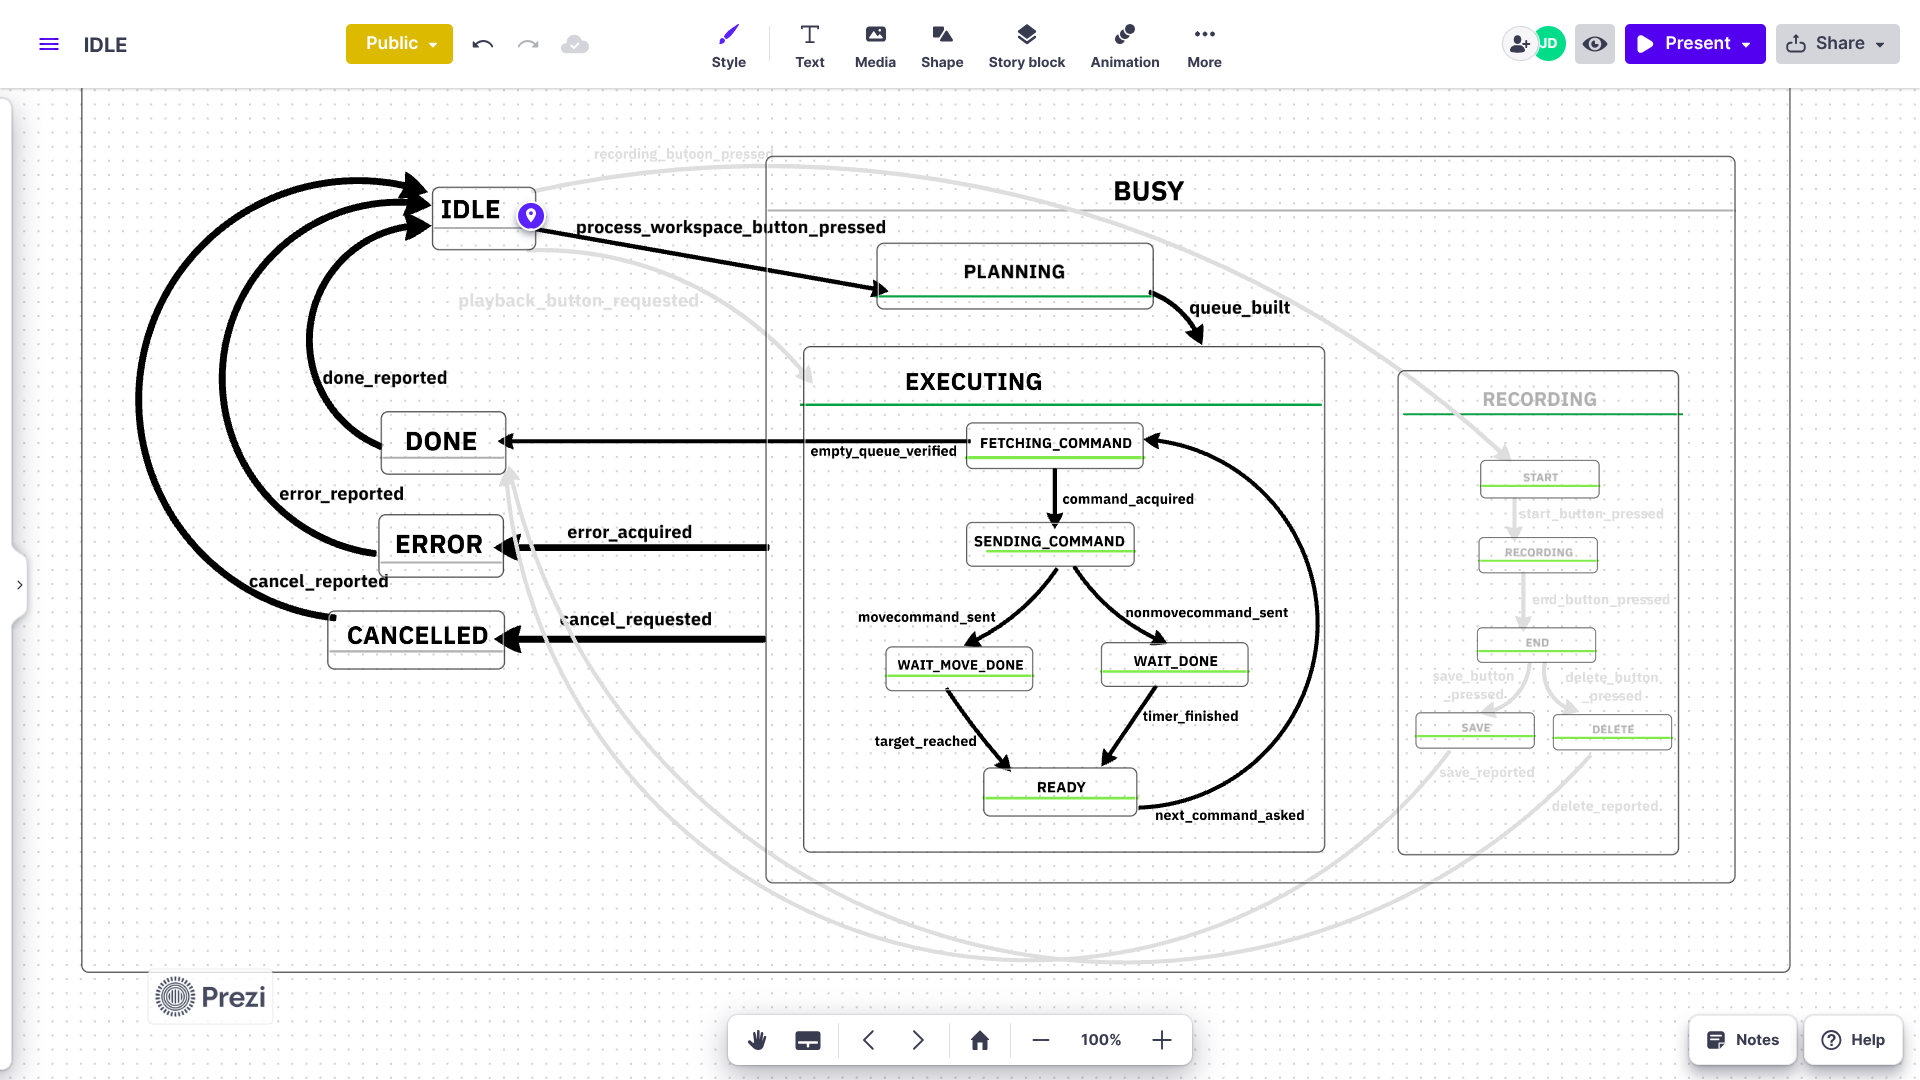
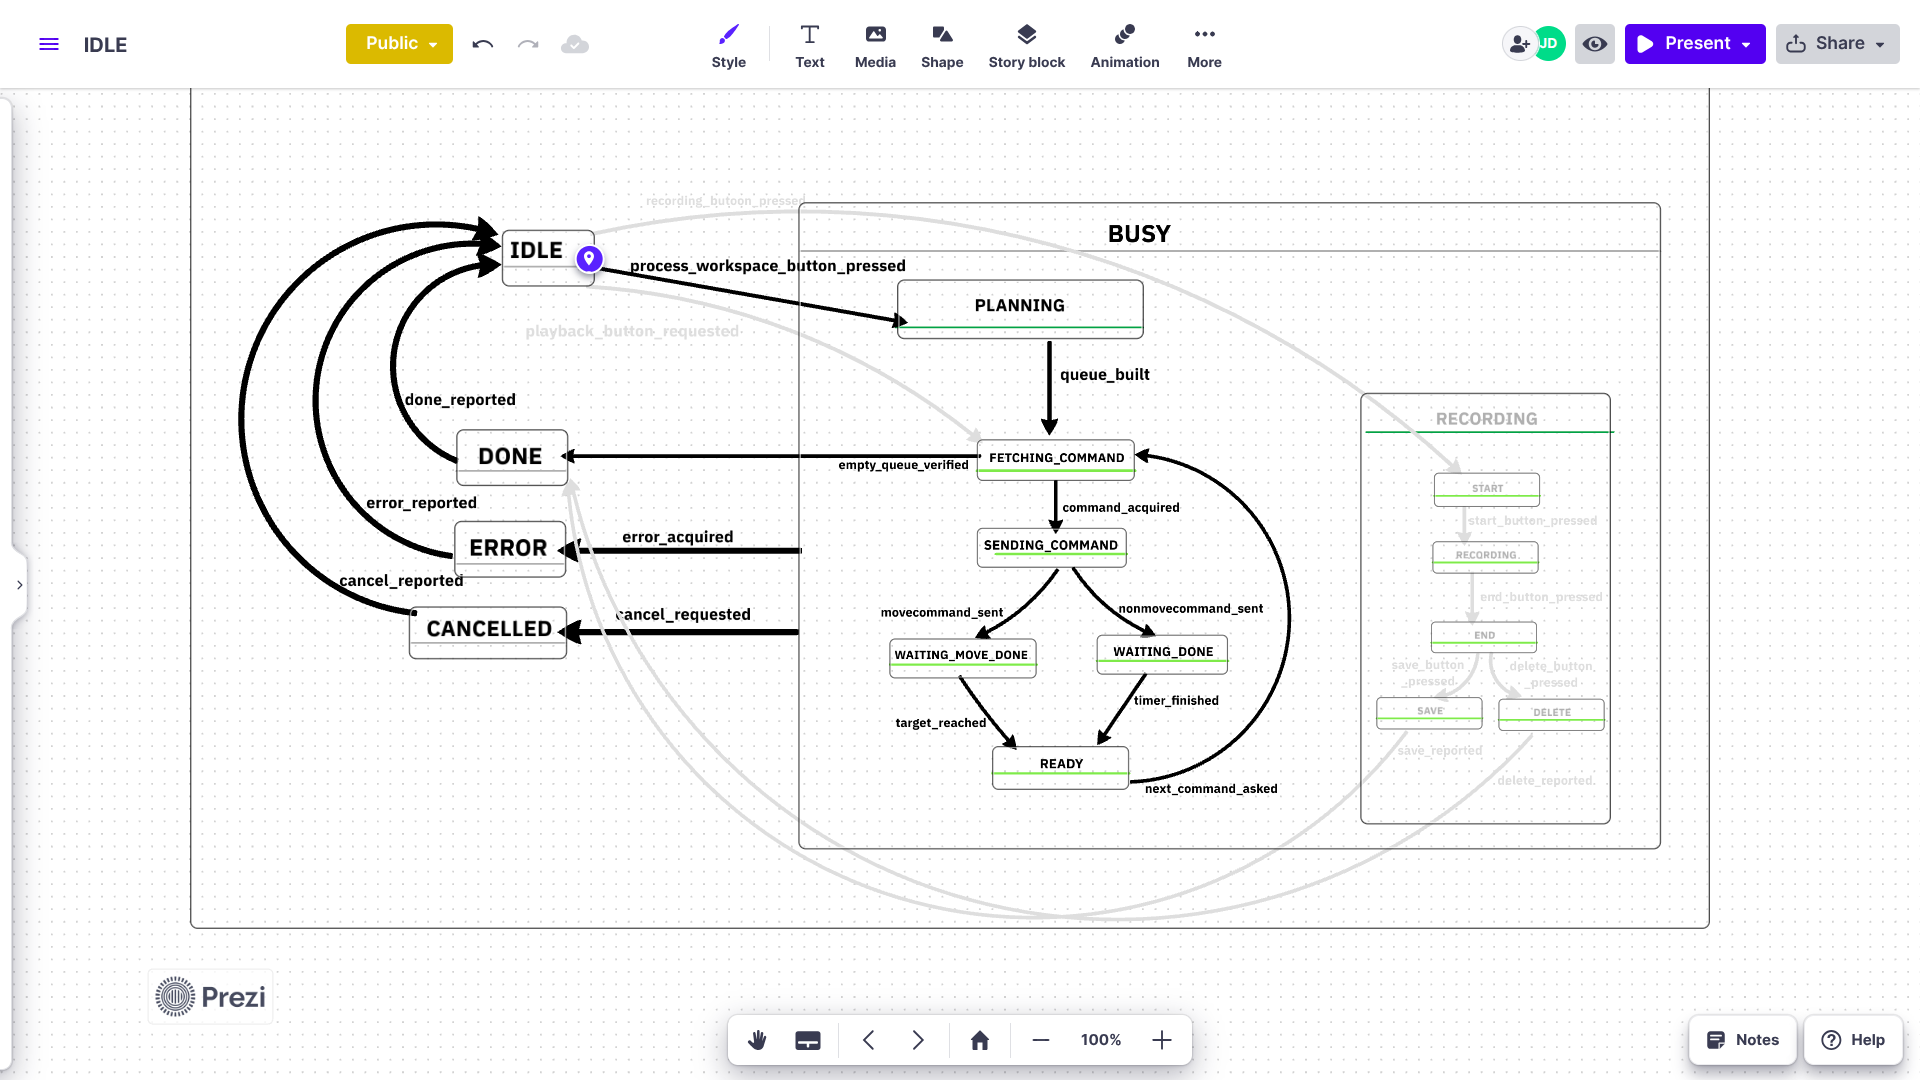
cosmetics.  and flattening useless substate.

Changed region(s): [[0.0625, 0.1222, 0.9062, 0.9167], [0.875, 0.7944, 0.9062, 0.825], [0.875, 0.1222, 0.9062, 0.1528]]

diff --git a/src/mycobot280pi_planner/mycobot280pi_planner/prn_hsm_states.py b/src/mycobot280pi_planner/mycobot280pi_planner/prn_hsm_states.py
@@ -11,42 +11,51 @@ from enum import Enum, auto
 from mycobot280pi_interfaces.action import ProcessWorkspace, SimpleCommandsAction
 
 # state is the fsm circles
-class StateID(Enum):
-    #auto() is used coz the assigned number doesn't matter, as long as they're unique to each other
+class StateName(Enum):
+    
+    # top-level states
     IDLE = auto()
     BUSY = auto()
-    CANCELLED = auto()
-    ERROR = auto()
     DONE = auto() 
-
+    ERROR = auto()
+    CANCELLED = auto()
+    
     # BUSY superstate's states
     busy_PLANNING = auto()
-    busy_EXECUTING = auto()
+    busy_FETCHING_COMMAND = auto()
+    busy_SENDING_COMMAND = auto()
+    busy_WAITING_MOVE_DONE = auto()
+    busy_WAITING_DONE = auto() 
+    busy_READY = auto() 
+    
+    """
+    # not implemented krn waktu gacukup
     busy_RECORDING = auto()
     
-    # BUSY EXECUTING's states
-    busy_executing_FETCH_COMMAND = auto()
-    busy_executing_SEND_COMMAND = auto()
-    busy_executing_WAIT = auto()
-    busy_executing_WAIT_MOVE_COMPLETE = auto() 
-    busy_executing_READY = auto() 
-    
+
     # BUSY RECORDING's state
     busy_recording_START = auto()
-    busy_recording_RECORD = auto()
+    busy_recording_RECORDING = auto()
     busy_recording_END = auto()
     busy_recording_SAVE = auto() 
     busy_recording_DELETE = auto()
-
+    """
 
 # event is fsm arrow labels      
-class EventID(Enum):        
-    # --- Triggers from the outside world (PlannerNode) ---
-    NEW_GOAL = auto()        # User sent a new goal
-    CANCEL = auto()          # User requested a cancel
-    RESET = auto()           # User wants to reset from an ERROR/DONE state
+class Event(Enum):        
     
-    # --- Triggers from hardware/monitors ---
+    # --- from IDLE ---
+    PROCESS_WORKSPACE_BUTTON_PRESSED = auto()        
+    
+    # --- from BUSY ---
+    ERROR_ACQUIRED = auto()
+    CANCEL_REQUESTED = auto()
+    
+    # ------- from busy_PLANNING ------
+    QUEUE_BUILT = auto()
+    
+    # ------- from busy_EXECUTING ------
+    
     ERROR_OCCURRED = auto()  # e.g., an emergency stop or motor fault
     
     # --- Internal events (states triggering other states) ---
@@ -59,6 +68,8 @@ class EventID(Enum):
     SAVE_COMPLETE = auto()
     DELETE_COMPLETE = auto()
      
+#====== jojo baru ngupdate sampe sini
+
 
 class PlannerHSM:
     def __init__(self,node):

diff --git a/README.md b/README.md
@@ -4,6 +4,8 @@ repository konten TA untuk sistem ini, tersedia di
 https://github.com/axiomjo/konten_TA  
 apabila sidang sudah selesai.
 
+
+
 # === SYSTEM OVERVIEW ===
 
 pake framework ROS2. makanya didesain pake nodes. ini nodes + interface2 yg dipake buat komunikasi antarnodes. desain sistem ini terdiri atas ![final nodes design.](ASSET_README/nodesfull.png)
@@ -13,9 +15,11 @@ Dilengkapi computer vision sederhana, sehingga bisa metain konteks objek di ling
 
 ![block diagram](ASSET_README/blokdiagramfull.png)
 
-planner node pake Hierarchical State Machine krn mau pake async + mau bisa cancel kapanpun + ada action service + action server di satu node ini. yg abu2 aku gayakin mau diimplement ga, soalnya ntar kudu ngedit desain nodesnya... lagi... dan waktuku tinggal 3 minggu lagi... soo... gtw.
+planner node pake Hierarchical State Machine krn mau pake async + mau bisa cancel kapanpun + ada action service + action server di satu node ini. 
 
-![hsm diagram for planner](ASSET_README/planner_hsm_plan.png)
+btw, yg abu2 aku gayakin mau diimplement, soalnya ntar kudu ngedit desain nodesnya... lagi... dan waktuku tinggal 3 minggu lagi... soo... highly unlikely to be implemented.
+
+![block diagram](/home/axiomjo/lab_robotik/eksperimental/pick_and_place_elephantrobotics_Mycobot280pi_ROS2/ASSET_README/planner_hsm_plan.png)
 
 # === HOW TO RUN THIS SYSTEM ===
 